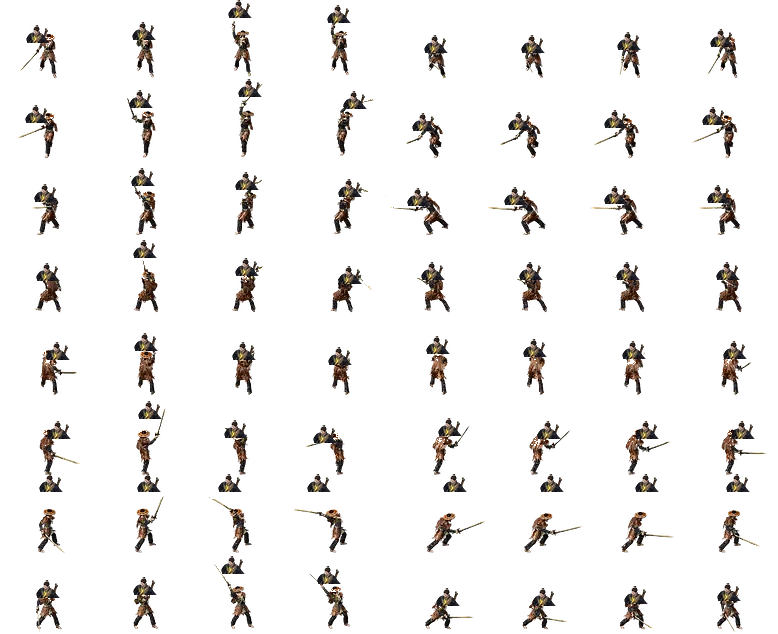
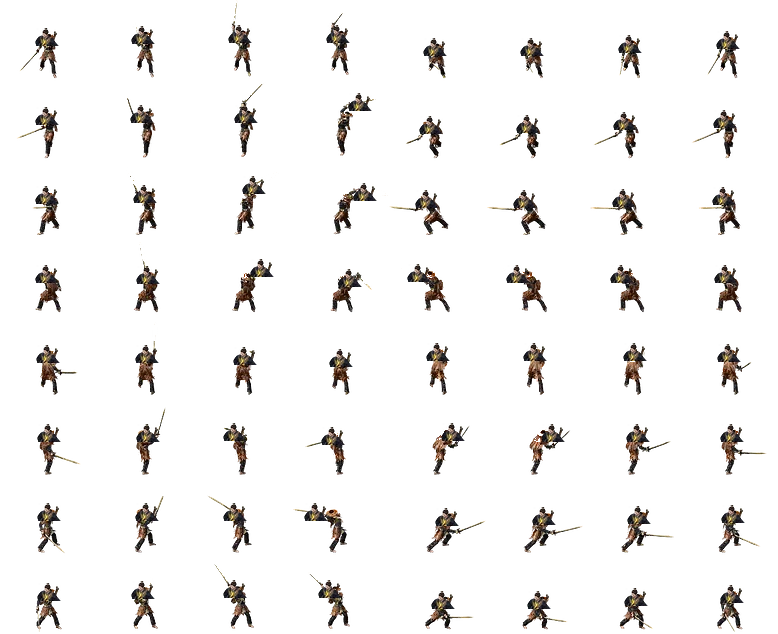
Sửa neo đầu KH trên sheet đánh — hết bóng đầu; anim 8 hướng mượt.

diff --git a/index.html b/index.html
@@ -9,10 +9,10 @@
 <link rel="manifest" href="manifest.json">
 <title>NamQuoc Idle</title>
 <link rel="stylesheet" href="fonts/ibm-plex-mono.css">
-<link rel="stylesheet" href="style.css?v=294">
-<link rel="stylesheet" href="jx1ui.css?v=294">
-<link rel="stylesheet" href="jx1ui2.css?v=294">
-<link rel="stylesheet" href="ui20.css?v=294">
+<link rel="stylesheet" href="style.css?v=295">
+<link rel="stylesheet" href="jx1ui.css?v=295">
+<link rel="stylesheet" href="jx1ui2.css?v=295">
+<link rel="stylesheet" href="ui20.css?v=295">
 </head>
 <body>
 <div id="bootLoad" aria-live="polite">
@@ -88,73 +88,73 @@
   <div id="modal" class="hidden" role="dialog" aria-modal="true"><div class="mbox" tabindex="-1"><button class="mx" id="mClose">✕</button><div id="mBody"></div></div></div>
   <div id="toast" role="status" aria-live="polite"></div>
 </div>
-<script src="data.js?v=294"></script>
-<script src="setvi.js?v=294"></script>
-<script src="setfix.js?v=294"></script>
-<script src="world.js?v=294"></script>
-<script src="zones2.js?v=294"></script>
-<script src="js/som_hoason_data.js?v=294"></script>
-<script src="js/som_hoason.js?v=294"></script>
-<script src="sound.js?v=294"></script>
-<script src="fx.js?v=294"></script>
-<script src="jmo.js?v=294"></script>
-<script src="jmo2.js?v=294"></script>
-<script src="js/core.js?v=294"></script>
-<script src="js/mapobs.js?v=294"></script>
-<script src="js/stats.js?v=294"></script>
-<script src="js/vocong.js?v=294"></script>
-<script src="js/skillsys.js?v=294"></script>
-<script src="js/kytran.js?v=294"></script>
-<script src="js/loot.js?v=294"></script>
-<script src="rdata.js?v=294"></script>
-<script src="js/sets.js?v=294"></script>
-<script src="js/recipes.js?v=294"></script>
-<script src="js/combat.js?v=294"></script>
-<script src="js/field.js?v=294"></script>
-<script src="js/ride.js?v=294"></script>
-<script src="js/save.js?v=294"></script>
-<script src="js/render.js?v=294"></script>
-<script src="js/som_anim.js?v=294"></script>
-<script src="js/jxmis.js?v=294"></script>
-<script src="jxstate.js?v=294"></script>
-<script src="fx2.js?v=294"></script>
-<script src="fx3.js?v=294"></script>
-<script src="js/skillfx.js?v=294"></script>
-<script src="js/look.js?v=294"></script>
-<script src="js/jxparts.js?v=294"></script>
-<script src="js/audio.js?v=294"></script>
-<script src="js/ui.js?v=294"></script>
-<script src="js/control.js?v=294"></script>
-<script src="js/shop.js?v=294"></script>
-<script src="js/potsel.js?v=294"></script>
-<script src="js/rewards.js?v=294"></script>
-<script src="js/title.js?v=294"></script>
-<script src="js/records.js?v=294"></script>
-<script src="js/horse.js?v=294"></script>
-<script src="js/thanma.js?v=294"></script>
-<script src="js/dungeon.js?v=294"></script>
-<script src="js/giangho.js?v=294"></script>
-<script src="js/forge.js?v=294"></script>
-<script src="js/epdo.js?v=294"></script>
-<script src="js/thuyen.js?v=294"></script>
-<script src="js/mode.js?v=294"></script>
-<script src="js/tabs2.js?v=294"></script>
-<script src="js/auto.js?v=294"></script>
-<script src="js/guide.js?v=294"></script>
-<script src="js/stash.js?v=294"></script>
-<script src="js/donkho.js?v=294"></script>
-<script src="js/name.js?v=294"></script>
-<script src="js/chatcfg.js?v=294"></script>
-<script src="js/chat.js?v=294"></script>
-<script src="js/net.js?v=294"></script>
-<script src="js/mp.js?v=294"></script>
-<script src="js/mp_auth.js?v=294"></script>
-<script src="js/ui20.js?v=294"></script>
-<script src="js/ui20win.js?v=294"></script>
-<script src="js/admin.js?v=294"></script>
-<script src="js/tho_test_fx_data.js?v=294"></script>
-<script src="js/viet_char_data.js?v=294"></script>
-<script src="js/tho_test.js?v=294"></script>
-<script src="js/main.js?v=294"></script>
+<script src="data.js?v=295"></script>
+<script src="setvi.js?v=295"></script>
+<script src="setfix.js?v=295"></script>
+<script src="world.js?v=295"></script>
+<script src="zones2.js?v=295"></script>
+<script src="js/som_hoason_data.js?v=295"></script>
+<script src="js/som_hoason.js?v=295"></script>
+<script src="sound.js?v=295"></script>
+<script src="fx.js?v=295"></script>
+<script src="jmo.js?v=295"></script>
+<script src="jmo2.js?v=295"></script>
+<script src="js/core.js?v=295"></script>
+<script src="js/mapobs.js?v=295"></script>
+<script src="js/stats.js?v=295"></script>
+<script src="js/vocong.js?v=295"></script>
+<script src="js/skillsys.js?v=295"></script>
+<script src="js/kytran.js?v=295"></script>
+<script src="js/loot.js?v=295"></script>
+<script src="rdata.js?v=295"></script>
+<script src="js/sets.js?v=295"></script>
+<script src="js/recipes.js?v=295"></script>
+<script src="js/combat.js?v=295"></script>
+<script src="js/field.js?v=295"></script>
+<script src="js/ride.js?v=295"></script>
+<script src="js/save.js?v=295"></script>
+<script src="js/render.js?v=295"></script>
+<script src="js/som_anim.js?v=295"></script>
+<script src="js/jxmis.js?v=295"></script>
+<script src="jxstate.js?v=295"></script>
+<script src="fx2.js?v=295"></script>
+<script src="fx3.js?v=295"></script>
+<script src="js/skillfx.js?v=295"></script>
+<script src="js/look.js?v=295"></script>
+<script src="js/jxparts.js?v=295"></script>
+<script src="js/audio.js?v=295"></script>
+<script src="js/ui.js?v=295"></script>
+<script src="js/control.js?v=295"></script>
+<script src="js/shop.js?v=295"></script>
+<script src="js/potsel.js?v=295"></script>
+<script src="js/rewards.js?v=295"></script>
+<script src="js/title.js?v=295"></script>
+<script src="js/records.js?v=295"></script>
+<script src="js/horse.js?v=295"></script>
+<script src="js/thanma.js?v=295"></script>
+<script src="js/dungeon.js?v=295"></script>
+<script src="js/giangho.js?v=295"></script>
+<script src="js/forge.js?v=295"></script>
+<script src="js/epdo.js?v=295"></script>
+<script src="js/thuyen.js?v=295"></script>
+<script src="js/mode.js?v=295"></script>
+<script src="js/tabs2.js?v=295"></script>
+<script src="js/auto.js?v=295"></script>
+<script src="js/guide.js?v=295"></script>
+<script src="js/stash.js?v=295"></script>
+<script src="js/donkho.js?v=295"></script>
+<script src="js/name.js?v=295"></script>
+<script src="js/chatcfg.js?v=295"></script>
+<script src="js/chat.js?v=295"></script>
+<script src="js/net.js?v=295"></script>
+<script src="js/mp.js?v=295"></script>
+<script src="js/mp_auth.js?v=295"></script>
+<script src="js/ui20.js?v=295"></script>
+<script src="js/ui20win.js?v=295"></script>
+<script src="js/admin.js?v=295"></script>
+<script src="js/tho_test_fx_data.js?v=295"></script>
+<script src="js/viet_char_data.js?v=295"></script>
+<script src="js/tho_test.js?v=295"></script>
+<script src="js/main.js?v=295"></script>
 </body>
 </html>

diff --git a/sw.js b/sw.js
@@ -1,7 +1,7 @@
 // Ma nguon (js/css/html): mang truoc, cache du phong (luon lay ban moi, choi offline khi mat mang).
 // Hinh / am thanh / font (nang, it doi): lay ngay tu cache, dong thoi tai lai ngam de cap nhat (stale-while-revalidate).
 // Cache hinh giu qua cac ban cap nhat -> khong phai tai lai ~200 MB ban do / sprite moi lan doi phien ban.
-const C = 'jxidle-v294', IMG = 'jxidle-img-294';
+const C = 'jxidle-v295', IMG = 'jxidle-img-295';
 const ASSET = /\.(png|jpe?g|webp|gif|mp3|ogg|wav|m4a|woff2?|ttf)$/i;
 self.addEventListener('install', e => self.skipWaiting());
 self.addEventListener('activate', e => e.waitUntil(caches.keys().then(ks => Promise.all(ks.filter(k => k !== C && k !== IMG).map(k => caches.delete(k)))).then(() => self.clients.claim())));

diff --git a/tools/viet_char_build.py b/tools/viet_char_build.py
@@ -177,8 +177,8 @@ def hat_mask(rgb: np.ndarray, alpha: np.ndarray, ay_hint: int) -> np.ndarray:
         return np.zeros((H, W), dtype=bool)
     y0, y1 = int(ys.min()), int(ys.max())
     ch = max(1, y1 - y0 + 1)
-    # nón nằm trong ~38% trên của silhouette
-    top_band = (np.arange(H)[:, None] >= y0) & (np.arange(H)[:, None] < y0 + int(ch * 0.38))
+    # nón nằm trong ~30% trên của silhouette
+    top_band = (np.arange(H)[:, None] >= y0) & (np.arange(H)[:, None] < y0 + int(ch * 0.30))
 
     r, g, b = rgb[..., 0], rgb[..., 1], rgb[..., 2]
     mean = rgb.mean(axis=2)
@@ -191,13 +191,14 @@ def hat_mask(rgb: np.ndarray, alpha: np.ndarray, ay_hint: int) -> np.ndarray:
 
 
 def remove_hat_and_place_head(frame: Image.Image, head: Image.Image, meta: dict) -> Image.Image:
-    """Xóa nón lá + dán đầu KH trẻ vào đúng vị trí đầu."""
+    """Chỉ xóa nón lá; neo đầu KH vào đỉnh THÂN (bỏ qua mũi kiếm/vũ khí)."""
     fr = frame.convert('RGBA')
     a = np.asarray(fr).astype(np.float32)
     rgb, alpha = a[..., :3], a[..., 3]
     H, W = rgb.shape[:2]
 
-    ys, xs = np.where(alpha > 40)
+    opaque = alpha > 40
+    ys, xs = np.where(opaque)
     if len(xs) == 0:
         return fr
 
@@ -205,32 +206,36 @@ def remove_hat_and_place_head(frame: Image.Image, head: Image.Image, meta: dict)
     ch = max(1, y1 - y0 + 1)
     mask = hat_mask(rgb, alpha, meta.get('ay', H - 2))
 
-    # tóc bạc / vùng sáng xám chỉ trên đỉnh (không phải áo)
     mean = rgb.mean(axis=2)
     chroma = rgb.max(axis=2) - rgb.min(axis=2)
     white_top = (
-        (np.arange(H)[:, None] >= y0) & (np.arange(H)[:, None] < y0 + int(ch * 0.32))
-        & (mean > 160) & (chroma < 38) & (alpha > 30)
+        (np.arange(H)[:, None] >= y0) & (np.arange(H)[:, None] < y0 + int(ch * 0.28))
+        & (mean > 165) & (chroma < 36) & (alpha > 30)
     )
     clear = mask | white_top
-
-    out = rgb.copy()
     out_a = alpha.copy()
     out_a[clear] = 0
-    base = Image.fromarray(np.dstack([out.astype(np.uint8), out_a.astype(np.uint8)]), 'RGBA')
+    base = Image.fromarray(
+        np.dstack([rgb.astype(np.uint8), out_a.astype(np.uint8)]), 'RGBA'
+    )
 
-    body = np.asarray(base)
-    bys, bxs = np.where(body[..., 3] > 40)
-    if len(bxs) == 0:
-        # nếu xóa hết (hiếm) — fallback gốc + đầu
-        base = fr.copy()
-        bys, bxs = ys, xs
-        y0 = int(bys.min())
+    # Đỉnh thân = hàng đầu có bề ngang đủ rộng (không phải mũi kiếm mỏng)
+    row_w = opaque.sum(axis=1)
+    body_rows = np.where(row_w >= 8)[0]
+    if len(body_rows) == 0:
+        body_rows = np.where(row_w >= 4)[0]
+    if len(body_rows) == 0:
+        body_top = y0
+        cx = int((int(xs.min()) + int(xs.max())) / 2)
     else:
-        y0 = int(bys.min())
-    cx = int((int(bxs.min()) + int(bxs.max())) / 2)
+        body_top = int(body_rows[0])
+        # tâm ngang tại vài hàng gần đỉnh thân
+        band = opaque[body_top:min(H, body_top + 6)]
+        bxs = np.where(band.any(axis=0))[0]
+        cx = int((int(bxs.min()) + int(bxs.max())) / 2) if len(bxs) else W // 2
+
     hx = cx - head.width // 2
-    hy = max(0, y0 - head.height + 10)
+    hy = max(0, body_top - head.height + 12)
     base.alpha_composite(head, (hx, hy))
     return base
 
